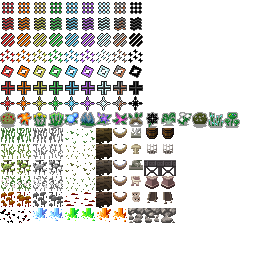
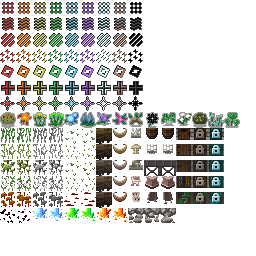
v4.0.3: improved occlusion shadow and door visuals

Changed region(s): [[0.6875, 0.5, 0.875, 0.8125]]

diff --git a/core/src/main/java/com/shatteredpixel/shatteredpixeldungeon/tiles/WallOcclusionTilemap.java b/core/src/main/java/com/shatteredpixel/shatteredpixeldungeon/tiles/WallOcclusionTilemap.java
@@ -32,8 +32,8 @@ public class WallOcclusionTilemap extends DungeonTilemap {
 	//direct values
 	private static final int CLEARED        = 0;
 	private static final int EMPTY          = 0;
-	private static final int DOOR_VERT      = 6;
-	private static final int DOOR_HORIZ     = 7;
+	private static final int DOOR_VERT      = 6; //per-region variants in each row down
+	private static final int DOOR_HORIZ     = 7; //per-region variants in each row down
 
 	//modifiers, added together to form tile
 	private static final int WALL_ABOVE     = 40;
@@ -59,10 +59,11 @@ public class WallOcclusionTilemap extends DungeonTilemap {
 		int curr = EMPTY;
 		if (DungeonTileSheet.doorTile(tile)){
 
+			int region = (Dungeon.depth-1) % 5 + 1;
 			if (wall(pos-1) && wall(pos+1)){
-				curr = DOOR_HORIZ;
+				curr = DOOR_HORIZ + 8*region;
 			} else {
-				curr = DOOR_VERT;
+				curr = DOOR_VERT + 8*region;
 			}
 
 		} else if (!DungeonTileSheet.wallStitcheable(tile) && !Dungeon.level.pit[pos]) {

diff --git a/core/src/main/java/com/shatteredpixel/shatteredpixeldungeon/tiles/TerrainFeaturesTilemap.java b/core/src/main/java/com/shatteredpixel/shatteredpixeldungeon/tiles/TerrainFeaturesTilemap.java
@@ -102,6 +102,16 @@ public class TerrainFeaturesTilemap extends DungeonTilemap {
 		} else if (tile == Terrain.REGION_DECO_ALT) {
 			return 138 + 16 * stage;
 
+		} else if (DungeonTileSheet.doorTile(tile) && wall(pos-1) && wall(pos+1)) {
+			if (tile == Terrain.DOOR){
+				return 139 + 16*stage;
+			} else if (tile == Terrain.LOCKED_DOOR || tile == Terrain.HERO_LKD_DR){
+				return 140 + 16*stage;
+			} else if (tile == Terrain.CRYSTAL_DOOR){
+				return 141 + 16*stage;
+			} else {
+				return -1;
+			}
 		} else if (tile == Terrain.EMBERS) {
 			if (DungeonTileSheet.getVisualWithAlts(DungeonTileSheet.EMBERS, pos) == DungeonTileSheet.EMBERS_ALT){
 				return 208 + 1;
@@ -135,6 +145,10 @@ public class TerrainFeaturesTilemap extends DungeonTilemap {
 		}
 
 		return -1;
+	}
+
+	private boolean wall(int cell) {
+		return DungeonTileSheet.wallStitcheable(map[cell]);
 	}
 
 	public static Image getTrapVisual( Trap trap ){

diff --git a/core/src/main/java/com/shatteredpixel/shatteredpixeldungeon/tiles/RaisedTerrainTilemap.java b/core/src/main/java/com/shatteredpixel/shatteredpixeldungeon/tiles/RaisedTerrainTilemap.java
@@ -47,7 +47,7 @@ public class RaisedTerrainTilemap extends DungeonTilemap {
 		}
 
 		int region = (Dungeon.depth-1)/5;
-		int regionOffset = region*4;
+		int regionOffset = region*8;
 
 		if (tile == Terrain.HIGH_GRASS){
 			if (DungeonTileSheet.getVisualWithAlts(DungeonTileSheet.RAISED_HIGH_GRASS, pos) == DungeonTileSheet.RAISED_HIGH_GRASS_ALT){
@@ -61,8 +61,14 @@ public class RaisedTerrainTilemap extends DungeonTilemap {
 			} else {
 				return regionOffset + 1;
 			}
+		} else if (DungeonTileSheet.doorTile(tile) && wall(pos-1) && wall(pos+1)) {
+			return regionOffset + 4;
 		}
 		
 		return -1;
+	}
+
+	private boolean wall(int cell) {
+		return DungeonTileSheet.wallStitcheable(map[cell]);
 	}
 }
